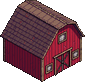
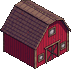
Farm: smaller props, dirt road, animals in true proportion
Re-bake the farm_rework props at about 70% of the previous size, replace
the cobble strips (wrong angle, arrow-shaped ends) with a dirt road from
the gate to the barn door, and give each animal its own size so a chicken
is smaller than a sheep, a pig and a cow. Shadows scale with the animal.

diff --git a/src/components/game/overlays/farmLayout.ts b/src/components/game/overlays/farmLayout.ts
@@ -1,6 +1,6 @@
 // Lays out the farm's loose parts (public/pixel/farm/*.png: the fence, gate, coop, pine, pond and dirt from scripts/pixel/farm_parts.py, everything else the
 // farm_rework Sprite Fusion set baked down to the pen's pixel grid) as a list of props on the ground plane: the fence round the pen with its gate, the barn,
-// coop, well, produce stall, water tubs, hay, barrels and log piles, the cobble path from the gate to the barn door, and an endless apron of trees, grass
+// coop, well, produce stall, water tubs, hay, barrels and log piles, the dirt road from the gate to the barn door, and an endless apron of trees, grass
 // tufts, rocks and flowers outside the fence. Pure: the same call gives the same props, and the apron is built from cells that do not depend on how far the window reaches, so a
 // bigger window only adds props at its edge. FarmProps.tsx draws them.
 import parts from '../../../../public/pixel/farm/index.json';
@@ -16,7 +16,7 @@ export interface FarmProp {
 	x: number;
 	y: number;
 	ground?: boolean;
-	/** drawn mirrored left to right (the other iso axis for the cobble path, a second look for hay) */
+	/** drawn mirrored left to right (a second look for hay, rocks and tufts) */
 	flip?: boolean;
 }
 
@@ -57,20 +57,25 @@ export const penProps = (): FarmProp[] => {
 		{ key: 'sheaf-0', part: 'wheat_sheaf', x: BARN.x - 4.4, y: BARN.y - 4.4 },
 		{ key: 'sheaf-1', part: 'wheat_sheaf', x: BARN.x - 5.4, y: BARN.y - 3.6, flip: true },
 	];
-	// the cobble path from the gate to the barn door: down from the gate, across, then up to the door (one tile is about 4.3 world units long, laid with a slight overlap)
+	// the dirt road from the gate to the barn door: down from the gate, across, then up to the door, a chain of overlapping worn patches
 	const gx = (GATE[0] + GATE[1]) / 2;
 	const PATH_Y = -8;
-	const cobble = (key: string, from: [number, number], to: [number, number], flip: boolean) => {
-		const len = Math.hypot(to[0] - from[0], to[1] - from[1]);
-		const n = Math.max(1, Math.ceil(len / 3.7));
-		for (let i = 0; i < n; i++) {
-			const t = (i + 0.5) / n;
-			props.push({ key: `${key}-${i}`, part: 'cobble_path', x: from[0] + (to[0] - from[0]) * t, y: from[1] + (to[1] - from[1]) * t, ground: true, flip });
+	const road = (key: string, from: [number, number], to: [number, number]) => {
+		const n = Math.ceil(Math.hypot(to[0] - from[0], to[1] - from[1]) / 1.6);
+		for (let i = 0; i <= n; i++) {
+			const t = i / n;
+			props.push({
+				key: `${key}-${i}`,
+				part: i % 2 ? 'dirt_0' : 'dirt_1',
+				x: from[0] + (to[0] - from[0]) * t,
+				y: from[1] + (to[1] - from[1]) * t,
+				ground: true,
+			});
 		}
 	};
-	cobble('path-a', [gx, -HY + 0.6], [gx, PATH_Y], true);
-	cobble('path-b', [gx, PATH_Y], [BARN.x, PATH_Y], false);
-	cobble('path-c', [BARN.x, PATH_Y], [BARN.x, BARN.y - 4.2], true);
+	road('road-a', [gx, -HY + 0.6], [gx, PATH_Y]);
+	road('road-b', [gx, PATH_Y], [BARN.x, PATH_Y]);
+	road('road-c', [BARN.x, PATH_Y], [BARN.x, BARN.y - 3.4]);
 	TUBS.forEach(([x, y], i) => props.push({ key: `tub-${i}`, part: 'water_tub', x, y }));
 	WELLS.forEach(([x, y], i) => props.push({ key: `well-${i}`, part: 'stone_well', x, y }));
 	const HAY_PARTS: FarmPart[] = ['hay_roll_iso', 'hay_stack_block', 'hay_roll_front'];
@@ -85,6 +90,7 @@ export const penProps = (): FarmProp[] => {
 		[COOP.x, COOP.y, 2.2],
 		[POND.x, POND.y, 3],
 		[STALL.x, STALL.y, 2.6],
+		...props.filter((p) => p.key.startsWith('road-')).map((p): [number, number, number] => [p.x, p.y, 1.4]),
 		...[...TUBS, ...WELLS, ...HAY, ...BARRELS, ...CRATES].map(([x, y]): [number, number, number] => [x, y, 1.6]),
 	];
 	const free = (x: number, y: number, pad = 0) => taken.every(([tx, ty, r]) => Math.hypot(x - tx, y - ty) > r + pad);

diff --git a/src/components/game/overlays/farmGeometry.ts b/src/components/game/overlays/farmGeometry.ts
@@ -29,7 +29,7 @@ export const TUBS: [number, number][] = [
 export const WELLS: [number, number][] = [[-9, 9]];
 export const HAY: [number, number][] = [
 	[-6, 7],
-	[10, 2],
+	[11.5, 1.2],
 	[2, -6],
 	[-11, -1],
 	[14.5, 13],
@@ -64,12 +64,12 @@ const box = (x: number, y: number, hx: number, hy: number): [number, number, num
 // Rectangles animals keep out of (x0, x1, y0, y1): every prop plus about a body's width round it, so an animal never stands in
 // or on a building, a trough, a hay stack and so on (its feet stay a whole sprite away from the prop's footprint)
 const BLOCKED: [number, number, number, number][] = [
-	box(BARN.x, BARN.y, 3.7, 3.2),
+	box(BARN.x, BARN.y, 3.4, 2.9),
 	box(COOP.x, COOP.y, 2.2, 2.0),
 	box(STALL.x, STALL.y, 2.6, 2.2),
 	box(POND.x, POND.y, 3.3, 3.0),
-	...TUBS.map(([x, y]) => box(x, y, 1.95, 1.95)),
-	...WELLS.map(([x, y]) => box(x, y, 1.9, 1.9)),
+	...TUBS.map(([x, y]) => box(x, y, 1.7, 1.7)),
+	...WELLS.map(([x, y]) => box(x, y, 1.6, 1.6)),
 	...HAY.map(([x, y]) => box(x, y, 2.3, 2.3)),
 	...BARRELS.map(([x, y]) => box(x, y, 1.35, 1.35)),
 	...CRATES.map(([x, y]) => box(x, y, 1.6, 1.6)),
@@ -158,8 +158,22 @@ export const ANIMAL_MOTION: Record<string, { speed: number }> = {
  */
 export const ANCHOR = { x: 24, y: 42 };
 
-/** How big an animal is drawn inside its 48 x 48 box (the art used to fill it: too big against the pen) */
-export const ANIMAL_SIZE = 0.75;
+/**
+ * How big each animal is drawn inside its 48 x 48 box, so the herd is in true proportion: a cow's body is about 29 native px wide, a pig's 23, a sheep's 21,
+ * a chicken's 13 (the art is 96 px with a different margin per animal, so the factors differ more than the sizes do).
+ */
+export const ANIMAL_SIZES: Record<string, number> = {
+	animal_cow_1: 0.66,
+	animal_cow_2: 0.66,
+	animal_pig: 0.52,
+	animal_sheep: 0.5,
+	animal_chicken_1: 0.4,
+	animal_chicken_2: 0.36,
+	animal_rooster: 0.38,
+	animal_duck: 0.32,
+};
+const DEFAULT_ANIMAL_SIZE = 0.5;
+export const animalSize = (icon: string): number => ANIMAL_SIZES[icon] ?? DEFAULT_ANIMAL_SIZE;
 
-/** How an animal icon sits in the 48 x 48 box: its scale (96 px art: 36 px) and its offset (native px): centred sideways, standing on the bottom edge so the feet stay where they were */
-export const spriteFit = (iconWidth: number) => ({ scale: (48 * ANIMAL_SIZE) / iconWidth, dx: (48 - 48 * ANIMAL_SIZE) / 2, dy: 48 - 48 * ANIMAL_SIZE });
+/** How an animal icon sits in the 48 x 48 box: its scale and its offset (native px): centred sideways, standing on the bottom edge so the feet stay about where they were */
+export const spriteFit = (iconWidth: number, size: number) => ({ scale: (48 * size) / iconWidth, dx: (48 - 48 * size) / 2, dy: 48 - 48 * size });

diff --git a/src/components/game/overlays/FarmScene.tsx b/src/components/game/overlays/FarmScene.tsx
@@ -12,6 +12,7 @@ import {
 	penZoom,
 	project,
 	randomSpot,
+	animalSize,
 	spriteFit,
 	PERSONAL_SPACE,
 	roomySpot,
@@ -263,7 +264,8 @@ const FarmScene: React.FC<FarmSceneProps> = ({ farmLevels, roosters = 0, highlig
 				{instances.map((inst) => {
 					const a = inst.animal;
 					const icon = iconOf(inst);
-					const fit = spriteFit(PIXEL_ICON_SIZES[icon][0]);
+					const size = animalSize(icon);
+					const fit = spriteFit(PIXEL_ICON_SIZES[icon][0], size);
 					return (
 						<div
 							key={inst.key}
@@ -272,6 +274,7 @@ const FarmScene: React.FC<FarmSceneProps> = ({ farmLevels, roosters = 0, highlig
 								else nodes.current.delete(inst.key);
 							}}
 							className='farm-animal'
+							style={{ '--s': size / 0.75 } as React.CSSProperties}
 							data-selected={highlightId === a.id}
 							data-celebrate={celebrate === a.id}
 						>

diff --git a/src/styles/Farm.css b/src/styles/Farm.css
@@ -96,10 +96,10 @@
 
 .farm-shadow {
 	position: absolute;
-	left: calc(12px * var(--z, 2));
-	top: calc(40px * var(--z, 2));
-	width: calc(24px * var(--z, 2));
-	height: calc(6px * var(--z, 2));
+	left: calc((24px - 12px * var(--s, 1)) * var(--z, 2));
+	top: calc((46px - 6px * var(--s, 1)) * var(--z, 2));
+	width: calc(24px * var(--s, 1) * var(--z, 2));
+	height: calc(6px * var(--s, 1) * var(--z, 2));
 	border-radius: 50%;
 	background: rgba(0, 0, 0, 0.32);
 	pointer-events: none;

diff --git a/docs/assets/map-details.md b/docs/assets/map-details.md
@@ -4,7 +4,7 @@ Generated by `npm run assets:catalog` from the game registries and `public/pixel
 
 Bushes, rocks, ruins, fantasy trees, props and creatures to dress the map. None is wired yet; use a variant that matches the ground.
 
-304 assets. Refer to an asset by its **name**.
+303 assets. Refer to an asset by its **name**.
 
 ## bushes
 
@@ -119,12 +119,11 @@ Bushes, rocks, ruins, fantasy trees, props and creatures to dress the map. None 
 
 | Name | Picture | Size | Status | Used by | Source file |
 | --- | --- | --- | --- | --- | --- |
-| `farm_barrel_lid` | <img src="../../public/pixel/farm/barrel_lid.png" width="64" alt="farm_barrel_lid"> | 32x35 | used | farm window | `pixel/farm/barrel_lid.png` |
-| `farm_barrel_upright` | <img src="../../public/pixel/farm/barrel_upright.png" width="60" alt="farm_barrel_upright"> | 30x39 | used | farm window | `pixel/farm/barrel_upright.png` |
-| `farm_beanstalk_sprout` | <img src="../../public/pixel/farm/beanstalk_sprout.png" width="60" alt="farm_beanstalk_sprout"> | 30x34 | used | farm window | `pixel/farm/beanstalk_sprout.png` |
-| `farm_boulder_flat` | <img src="../../public/pixel/farm/boulder_flat.png" width="82" alt="farm_boulder_flat"> | 41x41 | used | farm window | `pixel/farm/boulder_flat.png` |
+| `farm_barrel_lid` | <img src="../../public/pixel/farm/barrel_lid.png" width="48" alt="farm_barrel_lid"> | 22x24 | used | farm window | `pixel/farm/barrel_lid.png` |
+| `farm_barrel_upright` | <img src="../../public/pixel/farm/barrel_upright.png" width="48" alt="farm_barrel_upright"> | 21x26 | used | farm window | `pixel/farm/barrel_upright.png` |
+| `farm_beanstalk_sprout` | <img src="../../public/pixel/farm/beanstalk_sprout.png" width="48" alt="farm_beanstalk_sprout"> | 21x24 | used | farm window | `pixel/farm/beanstalk_sprout.png` |
+| `farm_boulder_flat` | <img src="../../public/pixel/farm/boulder_flat.png" width="56" alt="farm_boulder_flat"> | 28x28 | used | farm window | `pixel/farm/boulder_flat.png` |
 | `farm_bucket` | <img src="../../public/pixel/farm/bucket.png" width="48" alt="farm_bucket"> | 10x10 | used | farm window | `pixel/farm/bucket.png` |
-| `farm_cobble_path` | <img src="../../public/pixel/farm/cobble_path.png" width="80" alt="farm_cobble_path"> | 40x39 | used | farm window | `pixel/farm/cobble_path.png` |
 | `farm_coop` | <img src="../../public/pixel/farm/coop.png" width="80" alt="farm_coop"> | 40x38 | used | farm window | `pixel/farm/coop.png` |
 | `farm_dirt_0` | <img src="../../public/pixel/farm/dirt_0.png" width="56" alt="farm_dirt_0"> | 28x14 | used | farm window | `pixel/farm/dirt_0.png` |
 | `farm_dirt_1` | <img src="../../public/pixel/farm/dirt_1.png" width="84" alt="farm_dirt_1"> | 42x20 | used | farm window | `pixel/farm/dirt_1.png` |
@@ -136,21 +135,21 @@ Bushes, rocks, ruins, fantasy trees, props and creatures to dress the map. None 
 | `farm_flower_1` | <img src="../../public/pixel/farm/flower_1.png" width="48" alt="farm_flower_1"> | 4x4 | used | farm window | `pixel/farm/flower_1.png` |
 | `farm_flower_2` | <img src="../../public/pixel/farm/flower_2.png" width="48" alt="farm_flower_2"> | 4x4 | used | farm window | `pixel/farm/flower_2.png` |
 | `farm_gate` | <img src="../../public/pixel/farm/gate.png" width="88" alt="farm_gate"> | 44x33 | used | farm window | `pixel/farm/gate.png` |
-| `farm_grass_tuft` | <img src="../../public/pixel/farm/grass_tuft.png" width="70" alt="farm_grass_tuft"> | 35x38 | used | farm window | `pixel/farm/grass_tuft.png` |
-| `farm_hay_roll_front` | <img src="../../public/pixel/farm/hay_roll_front.png" width="74" alt="farm_hay_roll_front"> | 37x37 | used | farm window | `pixel/farm/hay_roll_front.png` |
-| `farm_hay_roll_iso` | <img src="../../public/pixel/farm/hay_roll_iso.png" width="94" alt="farm_hay_roll_iso"> | 47x41 | used | farm window | `pixel/farm/hay_roll_iso.png` |
-| `farm_hay_stack_block` | <img src="../../public/pixel/farm/hay_stack_block.png" width="78" alt="farm_hay_stack_block"> | 39x35 | used | farm window | `pixel/farm/hay_stack_block.png` |
-| `farm_log_pile` | <img src="../../public/pixel/farm/log_pile.png" width="82" alt="farm_log_pile"> | 41x40 | used | farm window | `pixel/farm/log_pile.png` |
+| `farm_grass_tuft` | <img src="../../public/pixel/farm/grass_tuft.png" width="48" alt="farm_grass_tuft"> | 24x26 | used | farm window | `pixel/farm/grass_tuft.png` |
+| `farm_hay_roll_front` | <img src="../../public/pixel/farm/hay_roll_front.png" width="50" alt="farm_hay_roll_front"> | 25x25 | used | farm window | `pixel/farm/hay_roll_front.png` |
+| `farm_hay_roll_iso` | <img src="../../public/pixel/farm/hay_roll_iso.png" width="68" alt="farm_hay_roll_iso"> | 34x29 | used | farm window | `pixel/farm/hay_roll_iso.png` |
+| `farm_hay_stack_block` | <img src="../../public/pixel/farm/hay_stack_block.png" width="54" alt="farm_hay_stack_block"> | 27x25 | used | farm window | `pixel/farm/hay_stack_block.png` |
+| `farm_log_pile` | <img src="../../public/pixel/farm/log_pile.png" width="56" alt="farm_log_pile"> | 28x27 | used | farm window | `pixel/farm/log_pile.png` |
 | `farm_meadow` | <img src="../../public/pixel/bg/farm_meadow.png" width="96" alt="farm_meadow"> | 96x96 | used | farm window background (repeats) | `pixel/bg/farm_meadow.png` |
 | `farm_pine` | <img src="../../public/pixel/farm/pine.png" width="70" alt="farm_pine"> | 35x42 | used | farm window | `pixel/farm/pine.png` |
 | `farm_pond` | <img src="../../public/pixel/farm/pond.png" width="96" alt="farm_pond"> | 67x36 | used | farm window | `pixel/farm/pond.png` |
-| `farm_produce_stall` | <img src="../../public/pixel/farm/produce_stall.png" width="96" alt="farm_produce_stall"> | 64x62 | used | farm window | `pixel/farm/produce_stall.png` |
-| `farm_red_barn` | <img src="../../public/pixel/farm/red_barn.png" width="96" alt="farm_red_barn"> | 85x82 | used | farm window | `pixel/farm/red_barn.png` |
-| `farm_rock_cluster` | <img src="../../public/pixel/farm/rock_cluster.png" width="62" alt="farm_rock_cluster"> | 31x28 | used | farm window | `pixel/farm/rock_cluster.png` |
-| `farm_signpost_blank` | <img src="../../public/pixel/farm/signpost_blank.png" width="64" alt="farm_signpost_blank"> | 32x44 | used | farm window | `pixel/farm/signpost_blank.png` |
-| `farm_stone_well` | <img src="../../public/pixel/farm/stone_well.png" width="90" alt="farm_stone_well"> | 45x54 | used | farm window | `pixel/farm/stone_well.png` |
-| `farm_water_tub` | <img src="../../public/pixel/farm/water_tub.png" width="96" alt="farm_water_tub"> | 50x41 | used | farm window | `pixel/farm/water_tub.png` |
-| `farm_wheat_sheaf` | <img src="../../public/pixel/farm/wheat_sheaf.png" width="64" alt="farm_wheat_sheaf"> | 32x29 | used | farm window | `pixel/farm/wheat_sheaf.png` |
+| `farm_produce_stall` | <img src="../../public/pixel/farm/produce_stall.png" width="96" alt="farm_produce_stall"> | 48x46 | used | farm window | `pixel/farm/produce_stall.png` |
+| `farm_red_barn` | <img src="../../public/pixel/farm/red_barn.png" width="96" alt="farm_red_barn"> | 71x69 | used | farm window | `pixel/farm/red_barn.png` |
+| `farm_rock_cluster` | <img src="../../public/pixel/farm/rock_cluster.png" width="48" alt="farm_rock_cluster"> | 22x20 | used | farm window | `pixel/farm/rock_cluster.png` |
+| `farm_signpost_blank` | <img src="../../public/pixel/farm/signpost_blank.png" width="48" alt="farm_signpost_blank"> | 22x30 | used | farm window | `pixel/farm/signpost_blank.png` |
+| `farm_stone_well` | <img src="../../public/pixel/farm/stone_well.png" width="64" alt="farm_stone_well"> | 32x38 | used | farm window | `pixel/farm/stone_well.png` |
+| `farm_water_tub` | <img src="../../public/pixel/farm/water_tub.png" width="66" alt="farm_water_tub"> | 33x28 | used | farm window | `pixel/farm/water_tub.png` |
+| `farm_wheat_sheaf` | <img src="../../public/pixel/farm/wheat_sheaf.png" width="48" alt="farm_wheat_sheaf"> | 22x20 | used | farm window | `pixel/farm/wheat_sheaf.png` |
 
 ## farm plants sheet (sheet)
 

diff --git a/docs/assets/README.md b/docs/assets/README.md
@@ -32,7 +32,7 @@ One name per picture, grouped by what it is. Biomes, terrain atlases and ground 
 | [Monsters](monsters.md) | 53 | 53 | 0 | 0 |
 | [Buildings](buildings.md) | 108 | 25 | 31 | 52 |
 | [Resources](resources.md) | 95 | 58 | 12 | 25 |
-| [Map details](map-details.md) | 304 | 54 | 1 | 249 |
+| [Map details](map-details.md) | 303 | 53 | 1 | 249 |
 | [UI](ui.md) | 105 | 94 | 5 | 6 |
 | [Portraits](portraits.md) | 22 | 16 | 6 | 0 |
 | [Biomes](biomes.md) | 5 | 5 | 0 | 0 |
